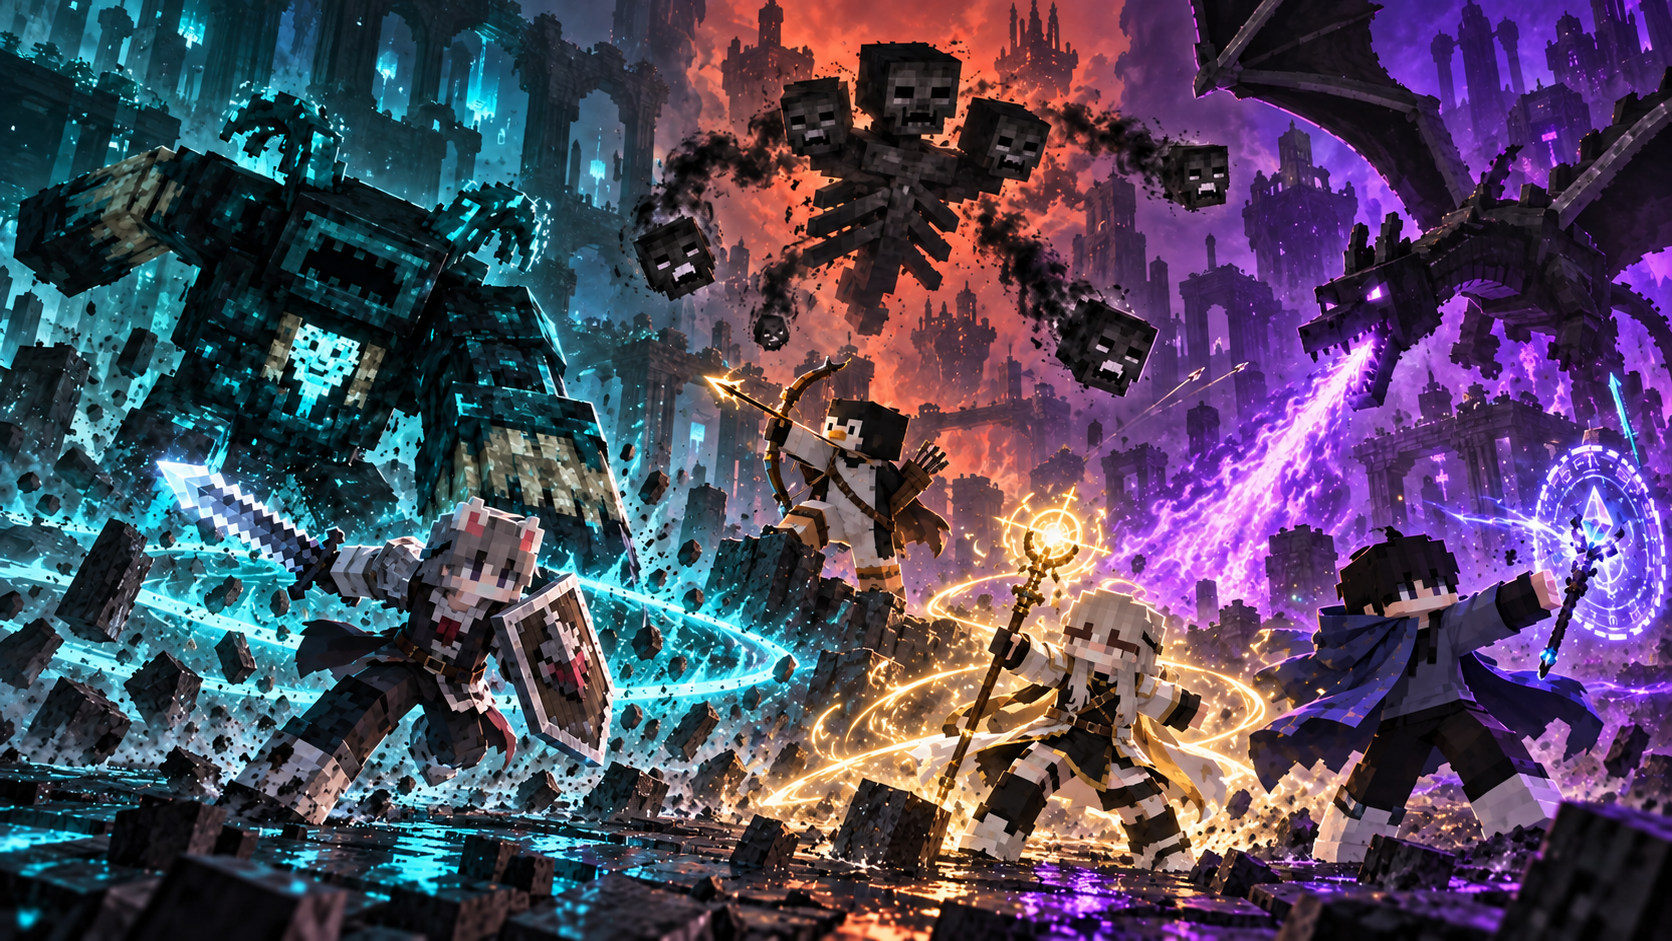
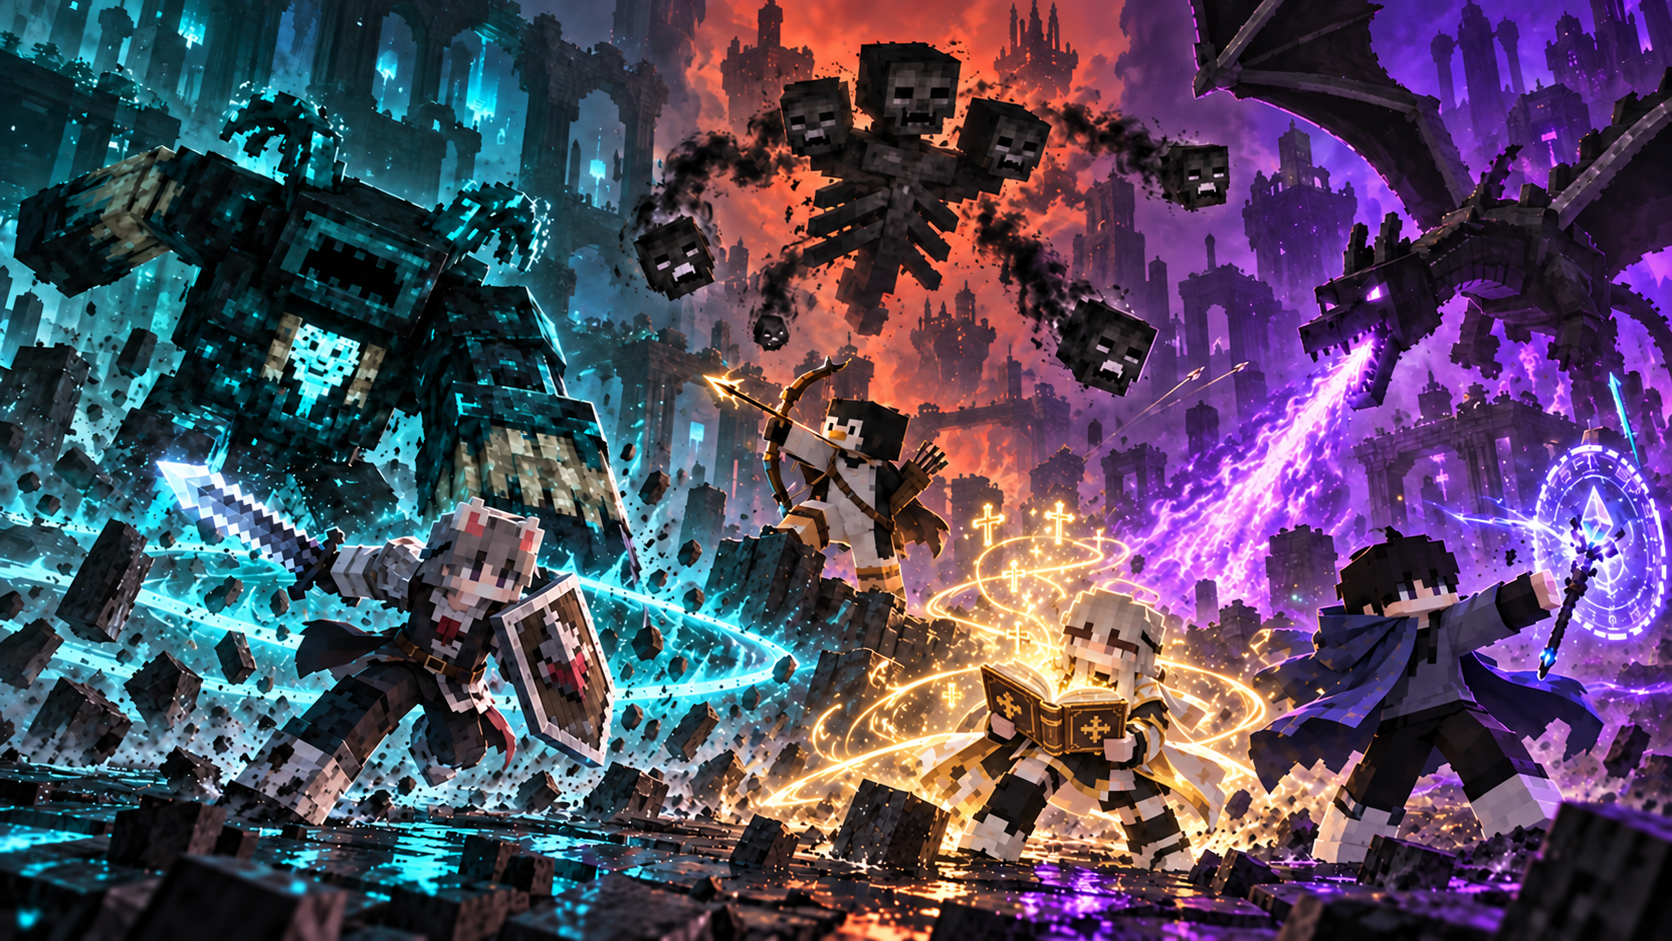
Update launcher to 1.0.8 with corrected cleric tome artwork

diff --git a/docs/releases/v1.0.8.md b/docs/releases/v1.0.8.md
@@ -1,0 +1,7 @@
+# 명선놀이터 시즌3 런처 v1.0.8
+
+전투 배경에서 성직자 YeseuL_o8의 장비를 펼친 성서로 수정했습니다. 성서에서 금빛 치유 마법이 나오는 모습을 적용했습니다.
+
+원정대 직업은 juchanho127 성기사, mjj503 명궁, 2_gseol 원소술사, YeseuL_o8 성직자입니다. 워든·위더·엔더드래곤과 맞서는 구도와 중앙 정렬을 유지합니다.
+
+기존 계정, 설정, 설치 경로와 게임 실행 기능을 유지합니다.
